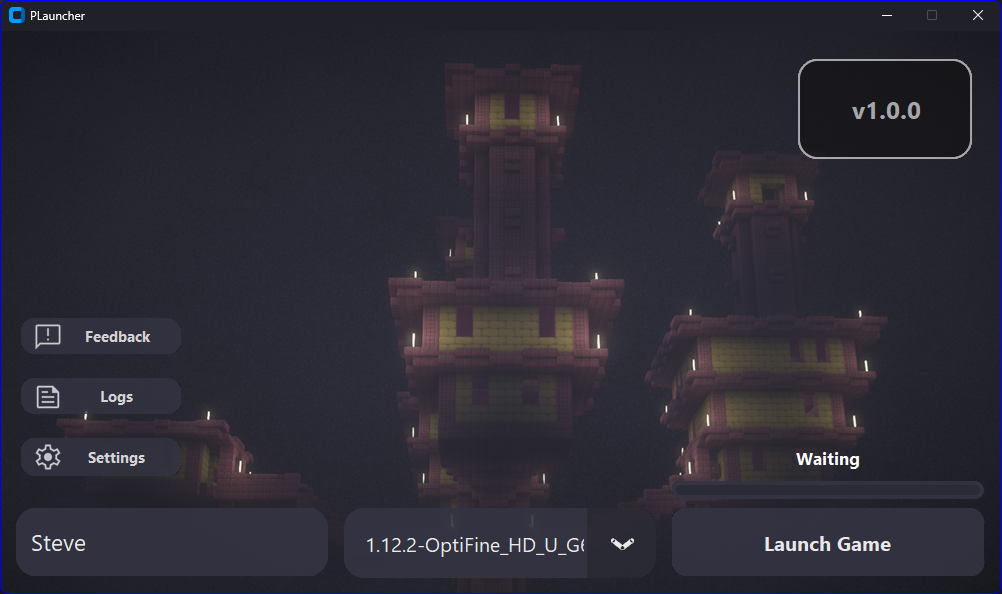
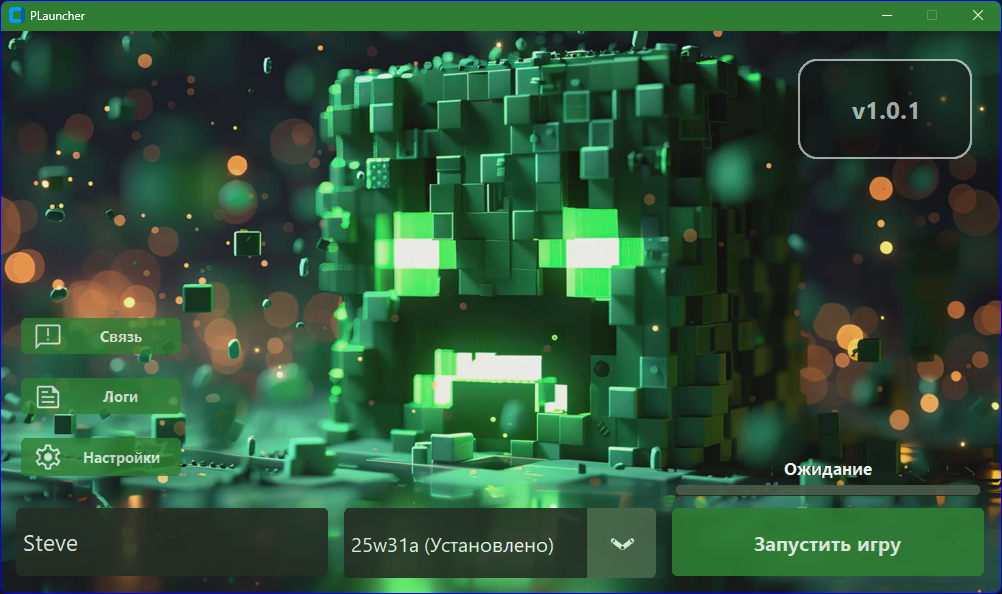
new version 1.0.1 update images

diff --git a/src/main.py b/src/main.py
@@ -144,7 +144,7 @@ if __name__ == "__main__":
 
     # Configuration constants
     IS_INTERNET = check_internet_connection()
-    CURRENT_VERSION = "v1.0.0"
+    CURRENT_VERSION = "v1.0.1"
     FPS = get_refresh_rate()
     MAX_MEMORY_GB = get_available_memory()
     FORM_VIEW_URL = "https://docs.google.com/forms/d/e/1FAIpQLScHheNuuIixaus6D_2iNRMNIMrbJWmiq-Rc7XKNf5lBo0f3NA/viewform"
